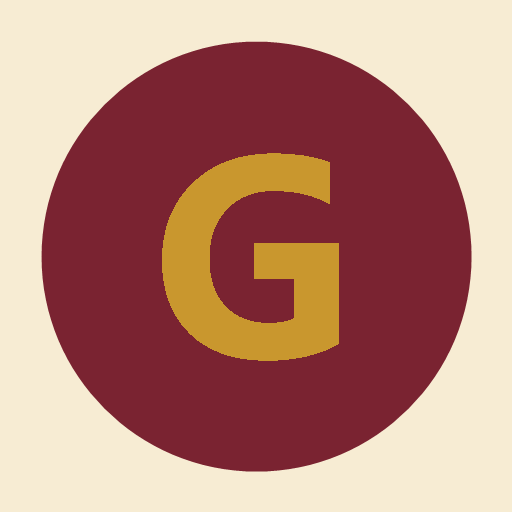
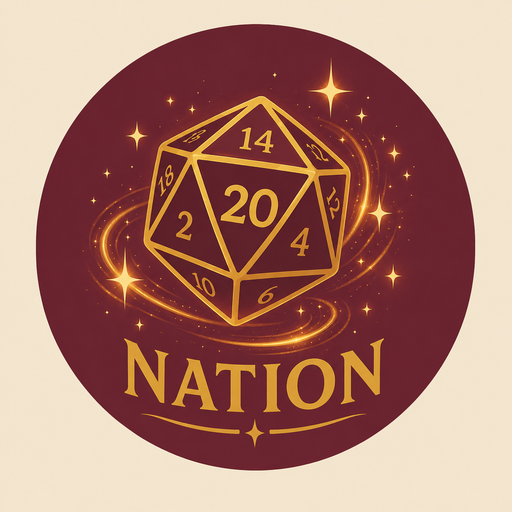
Twentynation

diff --git a/app.js b/app.js
@@ -5,7 +5,7 @@
    con cache locale (l'app funziona anche completamente offline).
    ══════════════════════════════════════════════════════════════ */
 
-const APP_VERSION = '5.5';
+const APP_VERSION = '5.6';
 
 /* ─── 1. CONFIGURAZIONE FIREBASE ─────────────────────────────── */
 const FIREBASE_CONFIG = {
@@ -785,8 +785,8 @@ function handleRedirectResult(){
 }
 function openInAppBrowserHelp(){
   const inner = `
-    <p class="muted" style="margin-bottom:14px">Stai usando il Grimorio dentro il browser interno di un'altra app (Instagram, Facebook, TikTok…). Google non consente l'accesso da qui: è una restrizione loro, non dell'app.</p>
-    <p class="muted" style="margin-bottom:14px"><b>Come fare:</b> tocca il menu <b>⋯</b> in alto e scegli <b>Apri in Chrome</b> (Android) o <b>Apri in Safari</b> (iPhone). Da lì l'accesso funziona, e puoi anche aggiungere il Grimorio alla schermata Home.</p>
+    <p class="muted" style="margin-bottom:14px">Stai usando TwentyNation dentro il browser interno di un'altra app (Instagram, Facebook, TikTok…). Google non consente l'accesso da qui: è una restrizione loro, non dell'app.</p>
+    <p class="muted" style="margin-bottom:14px"><b>Come fare:</b> tocca il menu <b>⋯</b> in alto e scegli <b>Apri in Chrome</b> (Android) o <b>Apri in Safari</b> (iPhone). Da lì l'accesso funziona, e puoi anche aggiungere TwentyNation alla schermata Home.</p>
     <button class="btn btn-ghost btn-block" onclick="copyAppLink()">Copia il link dell'app</button>
     <button class="btn btn-primary btn-block" style="margin-top:10px" onclick="closeModal()">Ho capito</button>`;
   openModal({ render: () => modalShell('Apri nel browser', inner) });
@@ -836,13 +836,13 @@ function authDiagnosticsHTML(){
     <div class="spell-source-note">
       Se l'accesso non riesce da telefono: prova prima la finestra popup; se il browser la blocca, usa il reindirizzamento.
       Se torni indietro senza risultare collegato, disattiva il blocco dei cookie di terze parti per questo sito
-      (iPhone: Impostazioni → Safari → "Impedisci tracciamento tra siti" disattivato) oppure apri il Grimorio nel browser invece che dall'icona installata.
+      (iPhone: Impostazioni → Safari → "Impedisci tracciamento tra siti" disattivato) oppure apri TwentyNation nel browser invece che dall'icona installata.
     </div>`;
   return modalShell('🔐 Diagnostica accesso', inner);
 }
 function copyDiagnostics(){
   const txt = [
-    'Grimorio ' + APP_VERSION,
+    'TwentyNation ' + APP_VERSION,
     'dominio: ' + location.hostname,
     'authDomain: ' + FIREBASE_CONFIG.authDomain,
     'standalone: ' + isStandalonePWA(),
@@ -1154,7 +1154,7 @@ function toggleTheme(){
   render();
 }
 
-function loaderHTML(){ return `<div id="loader"><div class="rune-load"></div><p>Il Grimorio si sta aprendo…</p></div>`; }
+function loaderHTML(){ return `<div id="loader"><div class="rune-load"></div><p>TwentyNation si sta aprendo…</p></div>`; }
 function emptyState(icon, text){ return `<div class="empty-state"><div class="ic">${icon}</div><p>${escapeHtml(text)}</p></div>`; }
 function themeToggleBtn(){ return `<button class="btn-icon" onclick="toggleTheme()" aria-label="Cambia tema" title="Cambia tema">${state.theme==='dark'?'🌙':'☀'}</button>`; }
 
@@ -1166,8 +1166,8 @@ function offlineBannerHTML(){
 
 function authScreenHTML(){
   return `<div class="auth-screen">
-    <div class="seal glow" style="font-family:var(--font-head)">📖</div>
-    <h1>Grimorio</h1>
+    <div class="seal glow portrait"><img src="./icon-maskable-512.png" alt="TwentyNation" width="512" height="512"></div>
+    <h1>TwentyNation</h1>
     <p>Personaggi, incantesimi, inventario, background e strumenti da master: la tua compagnia sempre a portata di mano, sincronizzata su tutti i dispositivi.</p>
     <button class="google-btn" onclick="signIn()">
       <svg width="18" height="18" viewBox="0 0 18 18" aria-hidden="true"><path fill="#4285F4" d="M17.64 9.2c0-.64-.06-1.25-.16-1.84H9v3.48h4.84a4.14 4.14 0 0 1-1.8 2.72v2.26h2.92c1.7-1.57 2.68-3.88 2.68-6.62z"/><path fill="#34A853" d="M9 18c2.43 0 4.47-.8 5.96-2.18l-2.92-2.26c-.81.54-1.84.86-3.04.86-2.34 0-4.32-1.58-5.03-3.71H.9v2.33A9 9 0 0 0 9 18z"/><path fill="#FBBC05" d="M3.97 10.71A5.4 5.4 0 0 1 3.68 9c0-.59.1-1.17.28-1.71V4.96H.9A9 9 0 0 0 0 9c0 1.45.35 2.83.9 4.04l3.07-2.33z"/><path fill="#EA4335" d="M9 3.58c1.32 0 2.51.46 3.44 1.35l2.58-2.58C13.46.89 11.43 0 9 0A9 9 0 0 0 .9 4.96l3.07 2.33C4.68 5.16 6.66 3.58 9 3.58z"/></svg>
@@ -1354,7 +1354,7 @@ function renderParty(){
         <button class="btn-icon" onclick="openGlobalSearch()" aria-label="Cerca ovunque" title="Cerca ovunque">🔍</button>
         ${themeToggleBtn()}
       </div>
-      <h1>Grimorio</h1>
+      <h1>TwentyNation</h1>
       <div class="rule">❖</div>
       <div class="sub">La tua compagnia</div>
     </div>
@@ -3562,7 +3562,7 @@ function handleImportFile(input){
       openSpellImport(); analyzeSpellImport(JSON.stringify(data)); return;
     }
     if (!data || (!Array.isArray(data.characters) && !Array.isArray(data.npcs) && !Array.isArray(data.customSpells))){
-      toast('⚠ Questo file non è un backup del Grimorio'); return;
+      toast('⚠ Questo file non è un backup di TwentyNation'); return;
     }
     const nc = (data.characters||[]).length, nn = (data.npcs||[]).length, ns = (data.customSpells||[]).length;
     confirmDialog('Importare il backup?',
@@ -3681,7 +3681,7 @@ function doRollCustom(){
 
 /* ─── 24. IMPORTAZIONE DI MASSA DEGLI INCANTESIMI ────────────────
    Accetta un file (o un testo incollato) in JSON e riconosce da solo
-   i formati più diffusi: quello del Grimorio, quello di Open5e
+   i formati più diffusi: quello di TwentyNation, quello di Open5e
    (v1 e v2) e quello di 5e-bits/5e-database. Gli incantesimi entrano
    fra i tuoi "personalizzati", quindi sono sincronizzati sull'account
    e modificabili come tutti gli altri.
@@ -3811,7 +3811,7 @@ function spellImportHTML(){
   const inner = `
     <p class="muted" style="margin-bottom:14px">
       Scegli un file — va bene sia un <b>PDF</b> di incantesimi sia un <b>.json</b> — oppure incolla il testo qui sotto.
-      Vengono riconosciuti da soli i formati del Grimorio, di Open5e e di 5e-database.
+      Vengono riconosciuti da soli i formati di TwentyNation, di Open5e e di 5e-database.
       Gli incantesimi finiscono fra i tuoi personalizzati: restano modificabili e si sincronizzano sull'account.
     </p>
     <div class="btn-row">
@@ -4053,7 +4053,7 @@ function markUpdateReady(){
 function updateBannerHTML(){
   if (!state.updateReady) return '';
   return `<div class="update-banner">
-    <span>✨ C'è una versione nuova del Grimorio.</span>
+    <span>✨ C'è una versione nuova di TwentyNation.</span>
     <button class="btn btn-sm btn-gold" onclick="forceAppUpdate()">Aggiorna ora</button>
   </div>`;
 }

diff --git a/index.html b/index.html
@@ -6,8 +6,8 @@
 <meta name="apple-mobile-web-app-capable" content="yes">
 <meta name="mobile-web-app-capable" content="yes">
 <meta name="apple-mobile-web-app-status-bar-style" content="black-translucent">
-<meta name="apple-mobile-web-app-title" content="Grimorio">
-<meta name="application-name" content="Grimorio">
+<meta name="apple-mobile-web-app-title" content="TwentyNation">
+<meta name="application-name" content="TwentyNation">
 <meta name="theme-color" content="#140f1e" media="(prefers-color-scheme: dark)">
 <meta name="theme-color" content="#140f1e">
 <meta name="color-scheme" content="dark light">
@@ -15,8 +15,10 @@
 <link rel="manifest" href="./manifest.json">
 <link rel="icon" type="image/png" sizes="192x192" href="./icon-192.png">
 <link rel="icon" type="image/png" sizes="512x512" href="./icon-512.png">
-<link rel="apple-touch-icon" href="./icon-192.png">
-<title>Grimorio 📖</title>
+<link rel="apple-touch-icon" sizes="180x180" href="./apple-touch-icon.png">
+<link rel="icon" type="image/png" sizes="32x32" href="./favicon-32.png">
+<link rel="icon" href="./favicon.ico" sizes="any">
+<title>TwentyNation 🎲</title>
 
 <link rel="preconnect" href="https://fonts.googleapis.com">
 <link rel="preconnect" href="https://fonts.gstatic.com" crossorigin>
@@ -232,6 +234,9 @@ h1, h2, h3, .display { font-family: var(--font-head); font-weight: 700; letter-s
 /* z-index: l'animazione di opacità del titolo crea un contesto di
    impilamento e senza questo il titolo copre i pulsanti (non cliccabili). */
 .hero-actions { position: absolute; top: 12px; right: 12px; display: flex; gap: 6px; z-index: 3; }
+/* Su schermo stretto un titolo lungo finirebbe sotto i due tasti in alto
+   a destra: gli si fa spazio scendendo di una riga. */
+@media (max-width: 440px) { .hero { padding-top: 52px; } }
 .hero h1, .hero .sub, .hero .rule { position: relative; z-index: 1; }
 
 /* ────────────────── SIGILLI ────────────────── */
@@ -805,7 +810,7 @@ h1, h2, h3, .display { font-family: var(--font-head); font-weight: 700; letter-s
 <div id="bg" aria-hidden="true"></div>
 <div id="embers" aria-hidden="true"></div>
 <div id="app">
-  <div id="loader"><div class="rune-load"></div><p>Il Grimorio si sta aprendo…</p></div>
+  <div id="loader"><div class="rune-load"></div><p>TwentyNation si sta aprendo…</p></div>
 </div>
 <div id="modal-root"></div>
 

diff --git a/sw.js b/sw.js
@@ -5,7 +5,7 @@
    I font di Google vengono messi in cache a parte, così l'aspetto
    resta corretto anche senza connessione.
 */
-const CACHE_VERSION = 'grimorio-v5-5';
+const CACHE_VERSION = 'twentynation-v5-6';
 const FONT_CACHE = 'grimorio-fonts-v1';
 const CORE_ASSETS = [
   './',
@@ -33,6 +33,10 @@ const CORE_ASSETS = [
   './manifest.json',
   './icon-192.png',
   './icon-512.png',
+  './icon-maskable-192.png',
+  './icon-maskable-512.png',
+  './apple-touch-icon.png',
+  './favicon-32.png',
 ];
 
 self.addEventListener('install', (event) => {

diff --git a/CHANGELOG.md b/CHANGELOG.md
@@ -1,4 +1,17 @@
-# Grimorio — lista dei cambiamenti
+# TwentyNation — lista dei cambiamenti
+
+## v5.6 — 28 agosto 2026
+**L'app si chiama TwentyNation, e ha il suo marchio.**
+
+- **Icona nuova** su tutti i formati: quella tonda bordeaux col d20 dorato. Ci sono le versioni normali (192 e 512), quelle **mascherate** per Android — dove il marchio è a tutto campo sul bordeaux, così il ritaglio a cerchio o a goccia non taglia niente — la `apple-touch-icon` per iPhone e la favicon per la scheda del browser.
+- **Nome cambiato in «TwentyNation»** dove indica l'app: schermata d'accesso, intestazione del party, titolo della pagina, nome sotto l'icona una volta installata, diagnostica, avviso di aggiornamento e messaggi sui backup.
+- **«Grimorio» resta dov'era il suo posto**: è la sezione degli incantesimi, in fondo alla barra, e nei messaggi che parlano di quella («Aggiungi dal Grimorio»). Cambiarlo lì avrebbe confuso e basta.
+- Sulla schermata d'accesso al posto dell'emoji 📖 ora c'è **il marchio vero**, dentro il sigillo dorato.
+
+### Una cosa che si è rotta col nome nuovo, e che ho sistemato
+«TwentyNation» è lungo il doppio di «Grimorio»: nell'intestazione del party finiva **sotto i due tasti** in alto a destra (cerca e tema) e si leggeva «TwentyNatio…». Misurato: il titolo occupa 193 px e lo spazio libero fra i tasti ne lascia 164 sotto i 430 px di schermo. Su schermo stretto il titolo ora scende di una riga e sta largo; sopra i 440 px resta dov'era.
+
+> Verificato: tutta la suite più le regressioni da v40 a v48 — zero errori a runtime. Audit mobile su 99 schermate invariato (2 segnalazioni, il dado che copre un pulsante da fermo).
 
 ## v5.5 — 28 agosto 2026
 **Condivisione col tavolo in un clic, account che regge fra browser e app, e la scheda si sfoglia col dito.**
